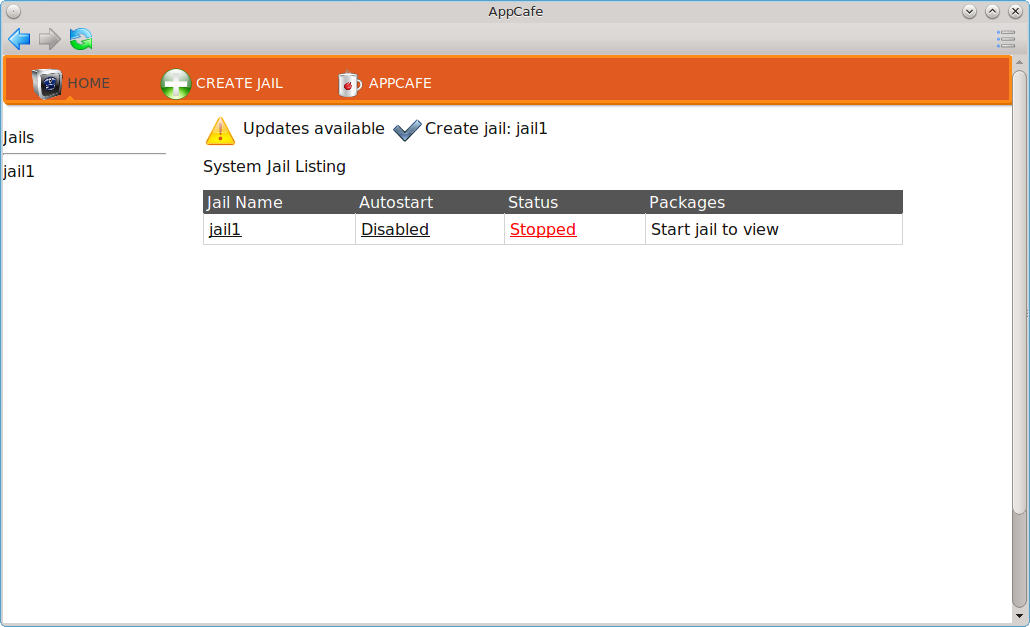
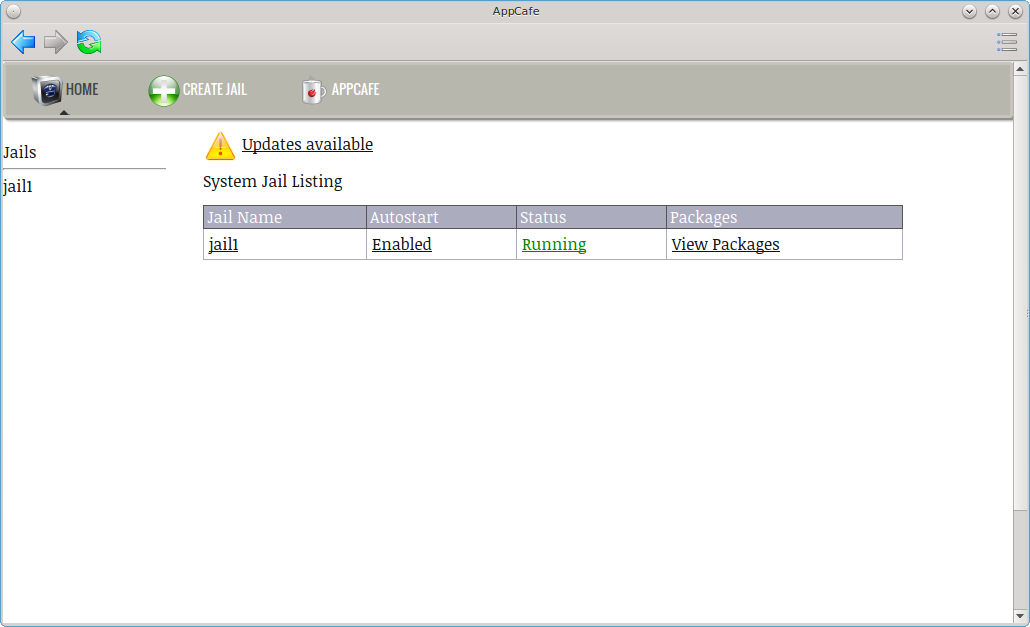
Finish updates to Appcafe chapter.

Changed region(s): [[0.0, 0.0303, 1.0, 1.0], [0.466, 0.0, 0.5282, 0.0303]]

diff --git a/src-qt5/docs/update.rst b/src-qt5/docs/update.rst
@@ -170,10 +170,10 @@ The "App Search" tab is shown in Figure 7.1e.
 
 .. image:: images/remote5.png
 
-To find an application, enter its name. Alternately, enter a description. For example, a search for "browser" will display all software with "browser" in the
-name as well as applications which provide browser functionality, such as Firefox. 
+To find an application, enter its name and click the "binoculars" icon. Alternately, enter a description. For example, a search for "browser" will display
+software with "browser" in the name as well as applications which provide browser functionality, such as Firefox. 
 
-By default, only PBIs are searched. To search for all available software, include packages, click the "Search all available PBI and packages" box.
+By default, only PBIs are searched. To search for all available software, include packages, check the "Search all available PBI and packages" box.
 
 .. index:: AppCafe®
 .. _Managing Software in Jails:
@@ -181,7 +181,8 @@ By default, only PBIs are searched. To search for all available software, includ
 Managing Software in Jails
 --------------------------
 
-To create, delete, and manage jails, click "Warden" in the orange bar, then "Create Jail". This will open the screen shown in Figure 7.1f.
+To create, delete, and manage jails, click the "Warden" tab. If you have not yet created any jails on the system, a message will appear. Click the "create a new jail"
+link in the message which will open the screen shown in Figure 7.1f.
 
 **Figure 7.1f: Adding a New Jail**
 
@@ -209,7 +210,9 @@ The jail can then be managed by clicking on the hyperlinks for the jail under th
 
 - **Packages:** if the jail is not running, a message will indicate that you need to first *Start jail to view*. Click the *Stopped* link so that it changes
   to *Running*. This will change the message to *View Packages*. Click this link to view which packages are currently installed in the jail. This will also
-  display the application categories so that you can install packages into the specified jail.
+  display the application categories so that you can install packages into the specified jail. A hyperlink is also included to "Export PBI list". If the jail
+  already has PBIs installed, you can click this link to create a file named :file:`exportfile.pbilist` which can then be imported into another jail or
+  PC-BSD ®system.
 
 **Figure 7.1h: Editing the Specified Jail**
 
@@ -217,7 +220,7 @@ The jail can then be managed by clicking on the hyperlinks for the jail under th
 
 .. note:: if any updates are available for the software installed within any of the jails, an "Updates available" link with a yellow triangle icon will appear
    just under the orange bar. Clicking this link will display a hyperlink for each jail that has updates. For example, click the link "Update packages for
-   jail1" to update the software on "jail1". 
+   jail1" to see the update details for "jail1". 
 
 
 .. index:: pkg
@@ -318,9 +321,12 @@ How PC-BSD® Updating Works
 The PC-BSD® update mechanism provides several safeguards to ensure that updating the operating system or its software is a low-risk operation. Beginning with
 version 10.1.1, the following steps occur automatically during an update: 
 
-* the update automatically creates a copy of the current operating system, known as a snapshot or boot environment, and mounts that snapshot in the
+* the update automatically creates a copy of the current operating system, known as a snapshot or boot environment (BE), and mounts that snapshot in the
   background. All of the updates then occur in the snapshot. This means that you can safely continue to use your system while it is updating as no changes are
   being made to the operating system or any of the applications currently in use. Instead, all changes are being made to the mounted copy.
+
+.. note:: if the system is getting low on disk space and there is not enough space to create a new BE, the update will fail with a message indicating that there is
+   not enough space to perform the update.
 
 * while the update is occurring, and until you reboot after the update, you won't be able to use AppCafe® to manage software. This is a safety measure to prevent
   package conflicts. Also, the system shutdown and restart buttons will be greyed out until the update is complete and the system is ready for reboot. Should a power
@@ -412,10 +418,10 @@ upgraded.
    change to "Edge". Also, if you select "Security" or "Nothing" in the "Configure Automatic Updates" tab of Update Manager, packages will only get updated
    with the next software release which happens every 3 months.
 
-.. warning:: package updates will update **all** installed software, even if you have placed a lock on it in using :command:`pkg` or an older version of
-   AppCafe®. If you prefer to lock certain applications against being updated, select "Security" or "Nothing" in the "Configure Automatic Updates" tab of
-   Update Manager and manually update software as needed using :command:`pkg`. Note that updating the operating system will still update any locked
-   applications.
+.. warning:: updates will update **all** installed software. If you have placed a lock on a package using :command:`pkg` or an older version of
+   AppCafe®, Update Manager will fail and will generate a message in the log indicating that the failure is due to a locked package. If you prefer to lock certain applications
+   against being updated, select "Security" or "Nothing" in the "Configure Automatic Updates" tab of Update Manager and manually update software as needed using
+   :command:`pkg`.
 
 .. index:: updates
 .. _Manual Updates (CLI Method):

diff --git a/src-qt5/docs/introduction.rst b/src-qt5/docs/introduction.rst
@@ -200,6 +200,8 @@ The following features or enhancements were introduced for PC-BSD® 10.1.2:
   :kbd:`End` keys can be used to skip to the first or last page of the PDF, whether or not it is in presentation mode. If printing is configured, this utility can be used to
   print or provide a print preview of the PDF.
 
+* The `zsh shell <http://www.zsh.org/>`_ has been added to the base system and is available for setting as a user's default shell in :ref:`User Manager`.
+
 * :ref:`Kodi` and :ref:`PlexHome Theater` can be installed from the MediaCenter category of the :ref:`System Selection Screen` of the installer.
 
 * The options in the :ref:`Advanced Mode` screen of the installer have been streamlined.
